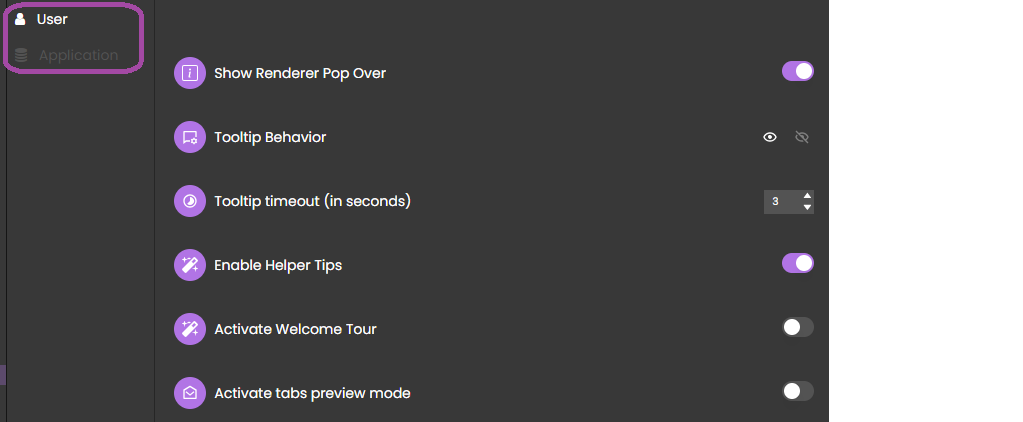
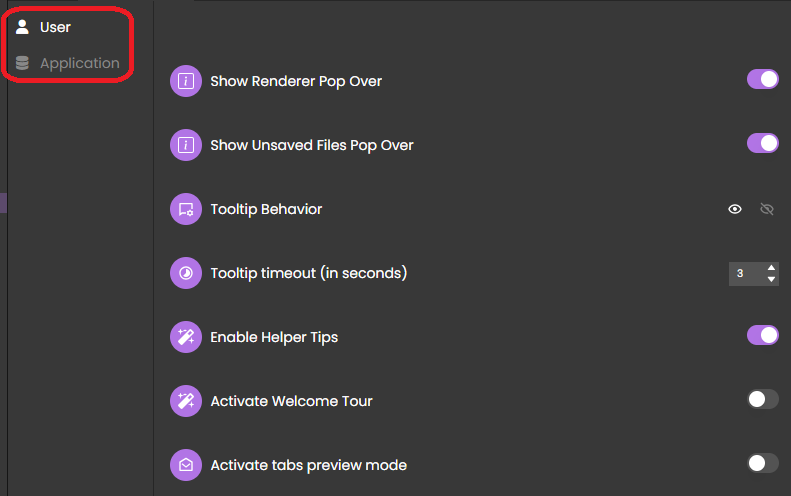
final

diff --git a/docs/studio/rendering.md b/docs/studio/rendering.md
@@ -31,6 +31,7 @@ In the case of Qodly Studio, rendering takes a different path compared to conven
 
 When a webform is rendered for the end user, what is returned is the final HTML code and CSS that represent the webform's visual appearance and functionality.
 
+
 :::info
 The webform is transformed into an HTML/CSS representation that can be displayed and interacted with in a web browser. JSON is used internally for data representation and configuration but is not what the end user receives when viewing the webform.
 :::
@@ -122,3 +123,12 @@ This preview operates under the logged-in user's privileges. During your initial
     </Column.Item>
 </Column.List>
 
+:::info
+
+If you click on the **Preview** button while there are unsaved changes in your forms, they will not be taken into account for the rendering. A pop over warns you about it:
+
+![preview-pop-over](img/preview-pop.png)
+
+You can disable this pop over display by selecting the "Memorize..." option at the bottom of the window. You can also control the option through the [**Show Unsaved Files Pop Over** user settings option](settings.md#show-unsaved-files-pop-over).
+
+:::

diff --git a/docs/studio/settings.md b/docs/studio/settings.md
@@ -26,7 +26,15 @@ This page contains settings related to the Qodly Studio user interface.
 
 ### Show Renderer Pop Over
 
-Displays or not a pop over when the [renderer](rendering.md) and Qodly Studio use different URL schemes.
+Displays or not the pop over when the [renderer](rendering.md) and Qodly Studio use different URL schemes.
+
+### Show Unsaved Files Pop Over
+
+Displays or not the pop over when you click on the [**Preview** button](rendering.md#preview-the-entire-site) whereas all changes made to your forms have not been saved:
+
+![preview-pop-over](img/preview-pop.png)
+
+Since unsaved changes will not be rendered, it is usually useful to be warned.
 
 ### Tooltip Behavior
 
